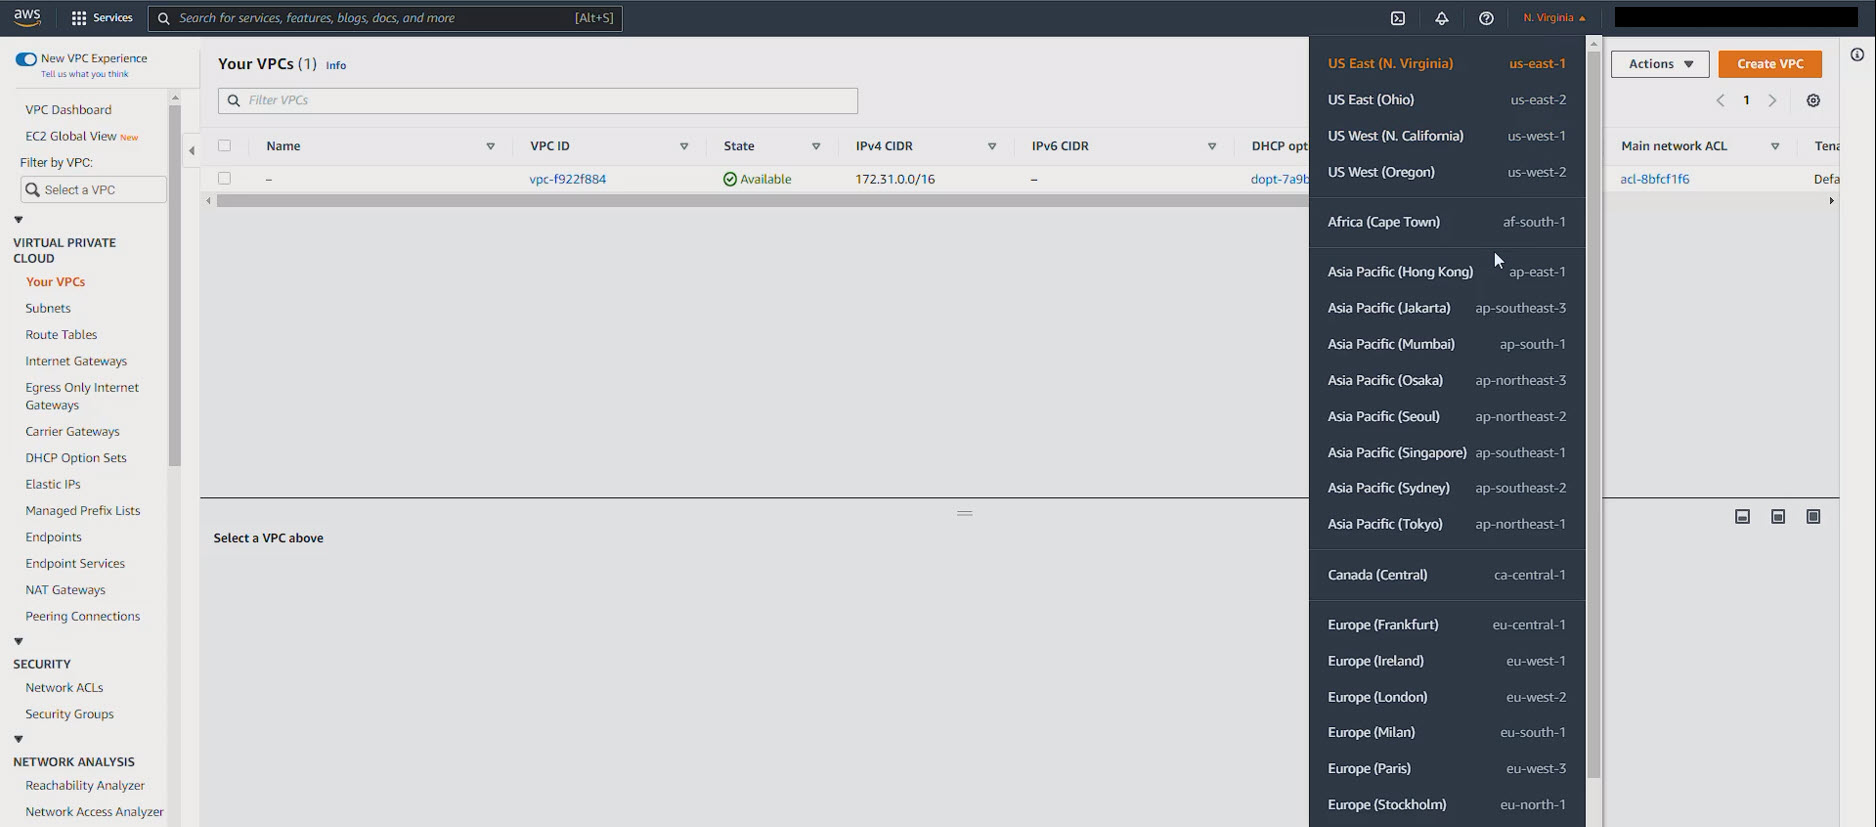
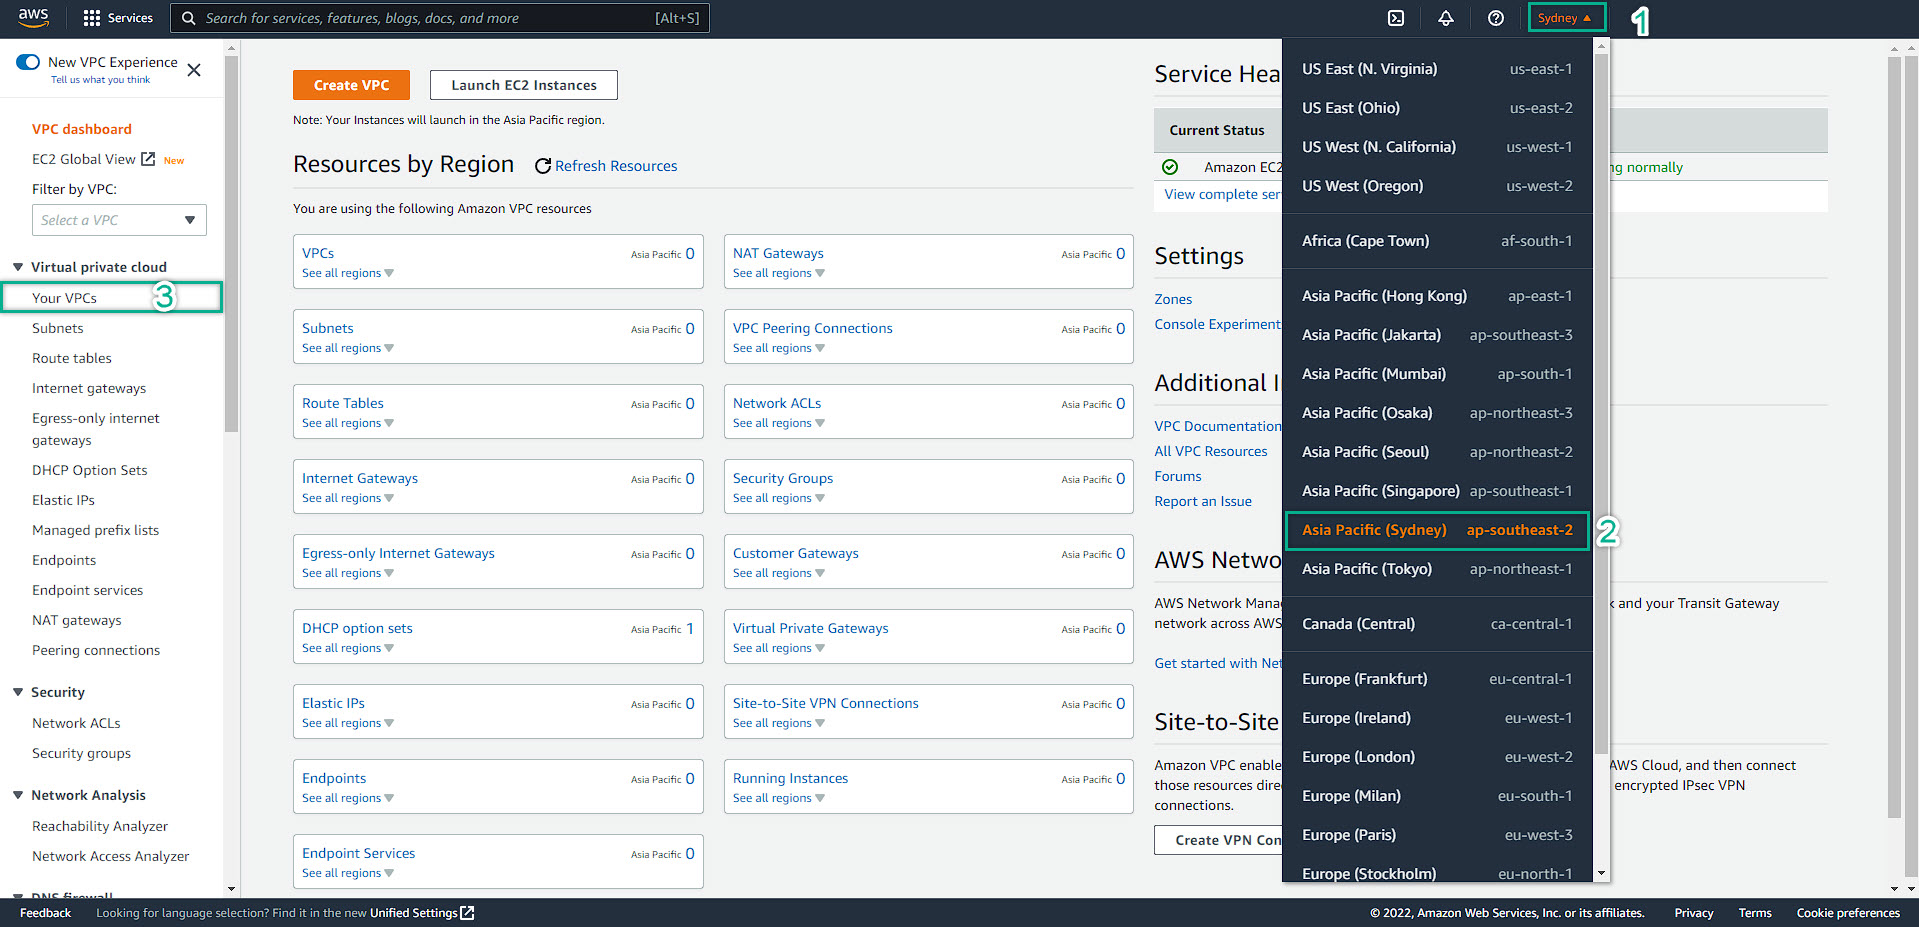
init

diff --git a/Windows-On-AWS-Basic/2-Prerequiste/2.2-create-vpc/_index.md b/Windows-On-AWS-Basic/2-Prerequiste/2.2-create-vpc/_index.md
@@ -1,22 +1,23 @@
 ### Create VPC
 
-In this section, we will create a VPC. However, before to continue there are some note that your need to know
+In this section, we will create a VPC. Something need to understand before deep-dive into a VPC:
 - AWS recently has been developing new VPC Management Console. Hence, pay attention to the top of your browser to see if there is anything inform from AWS. Click to switch to new VPC Management Console
 - New VPC Management Console will help you to create: Subnet, Route table and associate the route for you, NAT Gateway, Internet Gateway at the same time
 - The old VPC Management Console does not let you do that, it is only create vpc and subnet. You have to manually create route table and associate the route. Moreover, you have to create Internet Gateway, NAT Gateway and attach to VPC and Public subnet (coresponding)
 - The New VPC Management Console which is friendly and quick. However, if you are new into AWS, using the old console will be good because it will force you to play around the VPC services so that you have chance to understand more about the AWS.
   
 ---
-- If your are already at AWS Management Console => Search Box => VPC
-- At VPC Management Console => Check to see if you are in the right region. If not, change to your desired region
+### Steps to create a VPC
+1. If your are already at AWS Management Console => Search Box => VPC
+2. At VPC Management Console => Check to see if you are in the right region. If not, change to your desired region. Then on the left menu, click Your VPC
   ![VPC](images/vpc-1.jpg)
-- Click Create VPC
+3. Click Create VPC
   ![VPC](images/vpc-2.jpg)
-- Choose Create VPC, subnet, etc
+4. Choose Create VPC, subnet, etc
   ![VPC](images/vpc-3.jpg)
-- Name your VPC
-- Choose your IPv4 CIDR Block, AWS will use SDN (Software Defined Network) to do ip-subnetting for us
-- For IPv6, please refer to the info hyperlink. By default, No IPv6 CIDR Block
+5. Name your VPC
+   - Choose your IPv4 CIDR Block, AWS will use SDN (Software Defined Network) to do ip-subnetting for us
+   - For IPv6, please refer to the info hyperlink. By default, No IPv6 CIDR Block
   ![VPC](images/vpc-4.jpg)
 - Choose AZ: 2
 - Number of Public and Private Subnet: 2 => this is a common best practice on AWS for load balancing, fail-over, always-on and high availability of AWS services
